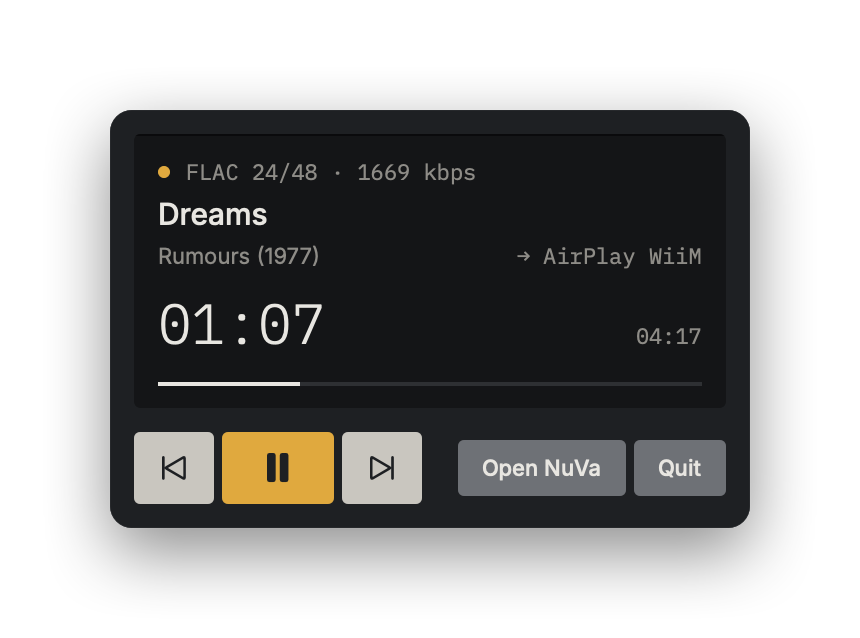
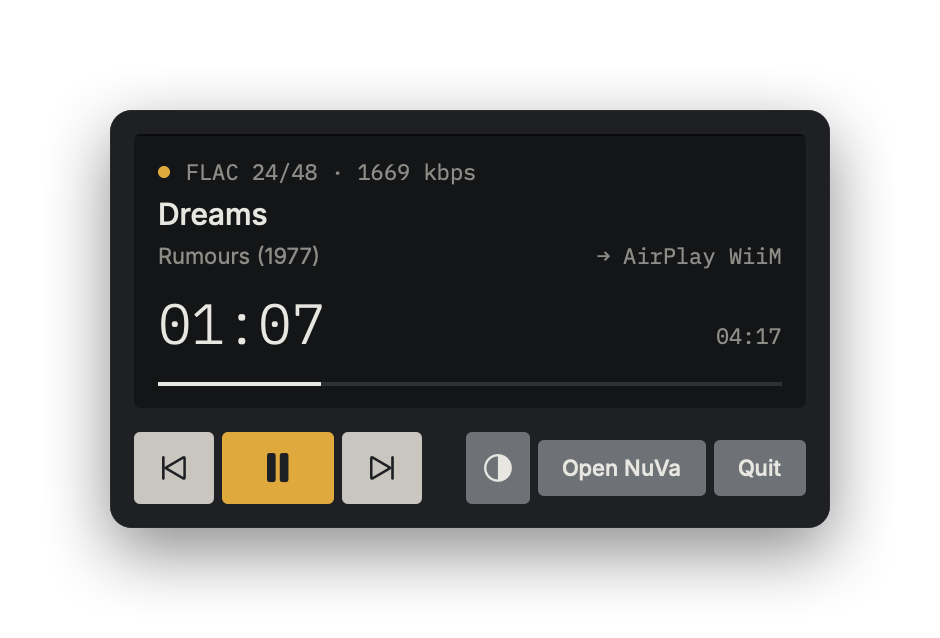
README: skins and fonts, new screenshots
Adds a Skins and fonts section with a Graphite image, the Portuguese
summary line, and the 360 pt mini player screenshot.

Changed region(s): [[0.0907, 0.1489, 0.907, 0.8339]]

diff --git a/scripts/make-readme-images.swift b/scripts/make-readme-images.swift
@@ -162,3 +162,5 @@ framed([(snapshot("compacto-chumbo"), .window(dark: true))], name: "compact.png"
 framed([(snapshot("primeiro-chumbo"), .window(dark: true))], name: "first-run.png")
 framed([(snapshot("equalizador-chumbo"), .popover)], name: "equalizer.png")
 framed([(snapshot("barra-chumbo"), .popover)], name: "menubar.png")
+framed([(snapshot("player-graphite-orange"), .window(dark: true)), (snapshot("player-graphite-green"), .window(dark: true))],
+       name: "skins.png")

diff --git a/README.md b/README.md
@@ -54,6 +54,12 @@ Send the music to a WiiM, a HomePod, an Apple TV or any AirPlay speaker from the
 
 NuVa borrows from Dieter Rams and classic Braun hi-fi: one flat panel, keys that say what they do by their colour, and small amber lights for what's on. An always-dark display shows the format, the bit depth and where the sound is going. It follows your Mac's appearance, in dark **Lead** or light **Aluminium**.
 
+## Skins and fonts
+
+<p align="center"><img src="docs/screenshots/skins.png" width="760" alt="NuVa in the Graphite Orange and Graphite Green skins"></p>
+
+The look above is the **Nuno** skin. **Graphite Orange** and **Graphite Green** are always dark, with a single bright accent on the play key, the lights and the playing track. Switch in **View › Skin** (⌥⌘1, ⌥⌘2, ⌥⌘3) or from the mini player. Skins change colours only: the keys, the layout and the shortcuts stay where your hands expect them. **View › Font** picks Inter + IBM Plex Mono or Apple's SF Pro + SF Mono.
+
 ## Browse folders, play a whole album
 
 <p align="center"><img src="docs/screenshots/browser.png" width="760" alt="Folder browser next to the player"></p>
@@ -172,6 +178,7 @@ Toca FLAC pelo motor de áudio da própria Apple, envia o som para as tuas colun
 - **AirPlay 2.** WiiM, HomePod, Apple TV ou qualquer coluna AirPlay.
 - **Jellyfin sem confusão.** Navega pelas pastas reais do servidor e toca os ficheiros originais.
 - **Três tamanhos.** Player, com navegador e compacto. A janela estica na vertical para veres o álbum inteiro.
+- **Skins:** Nuno (claro ou escuro, como o sistema), Graphite Orange e Graphite Green (sempre escuras), em Visualização › Skin. Fonte Inter + IBM Plex Mono ou SF Pro + SF Mono, em Visualização › Fonte.
 - **Equalizador de 10 bandas**, media keys, Centro de Controlo e mini player na barra de menus.
 - Em português e inglês, conforme a língua do sistema. macOS 14 ou posterior, Apple silicon e Intel.
 
